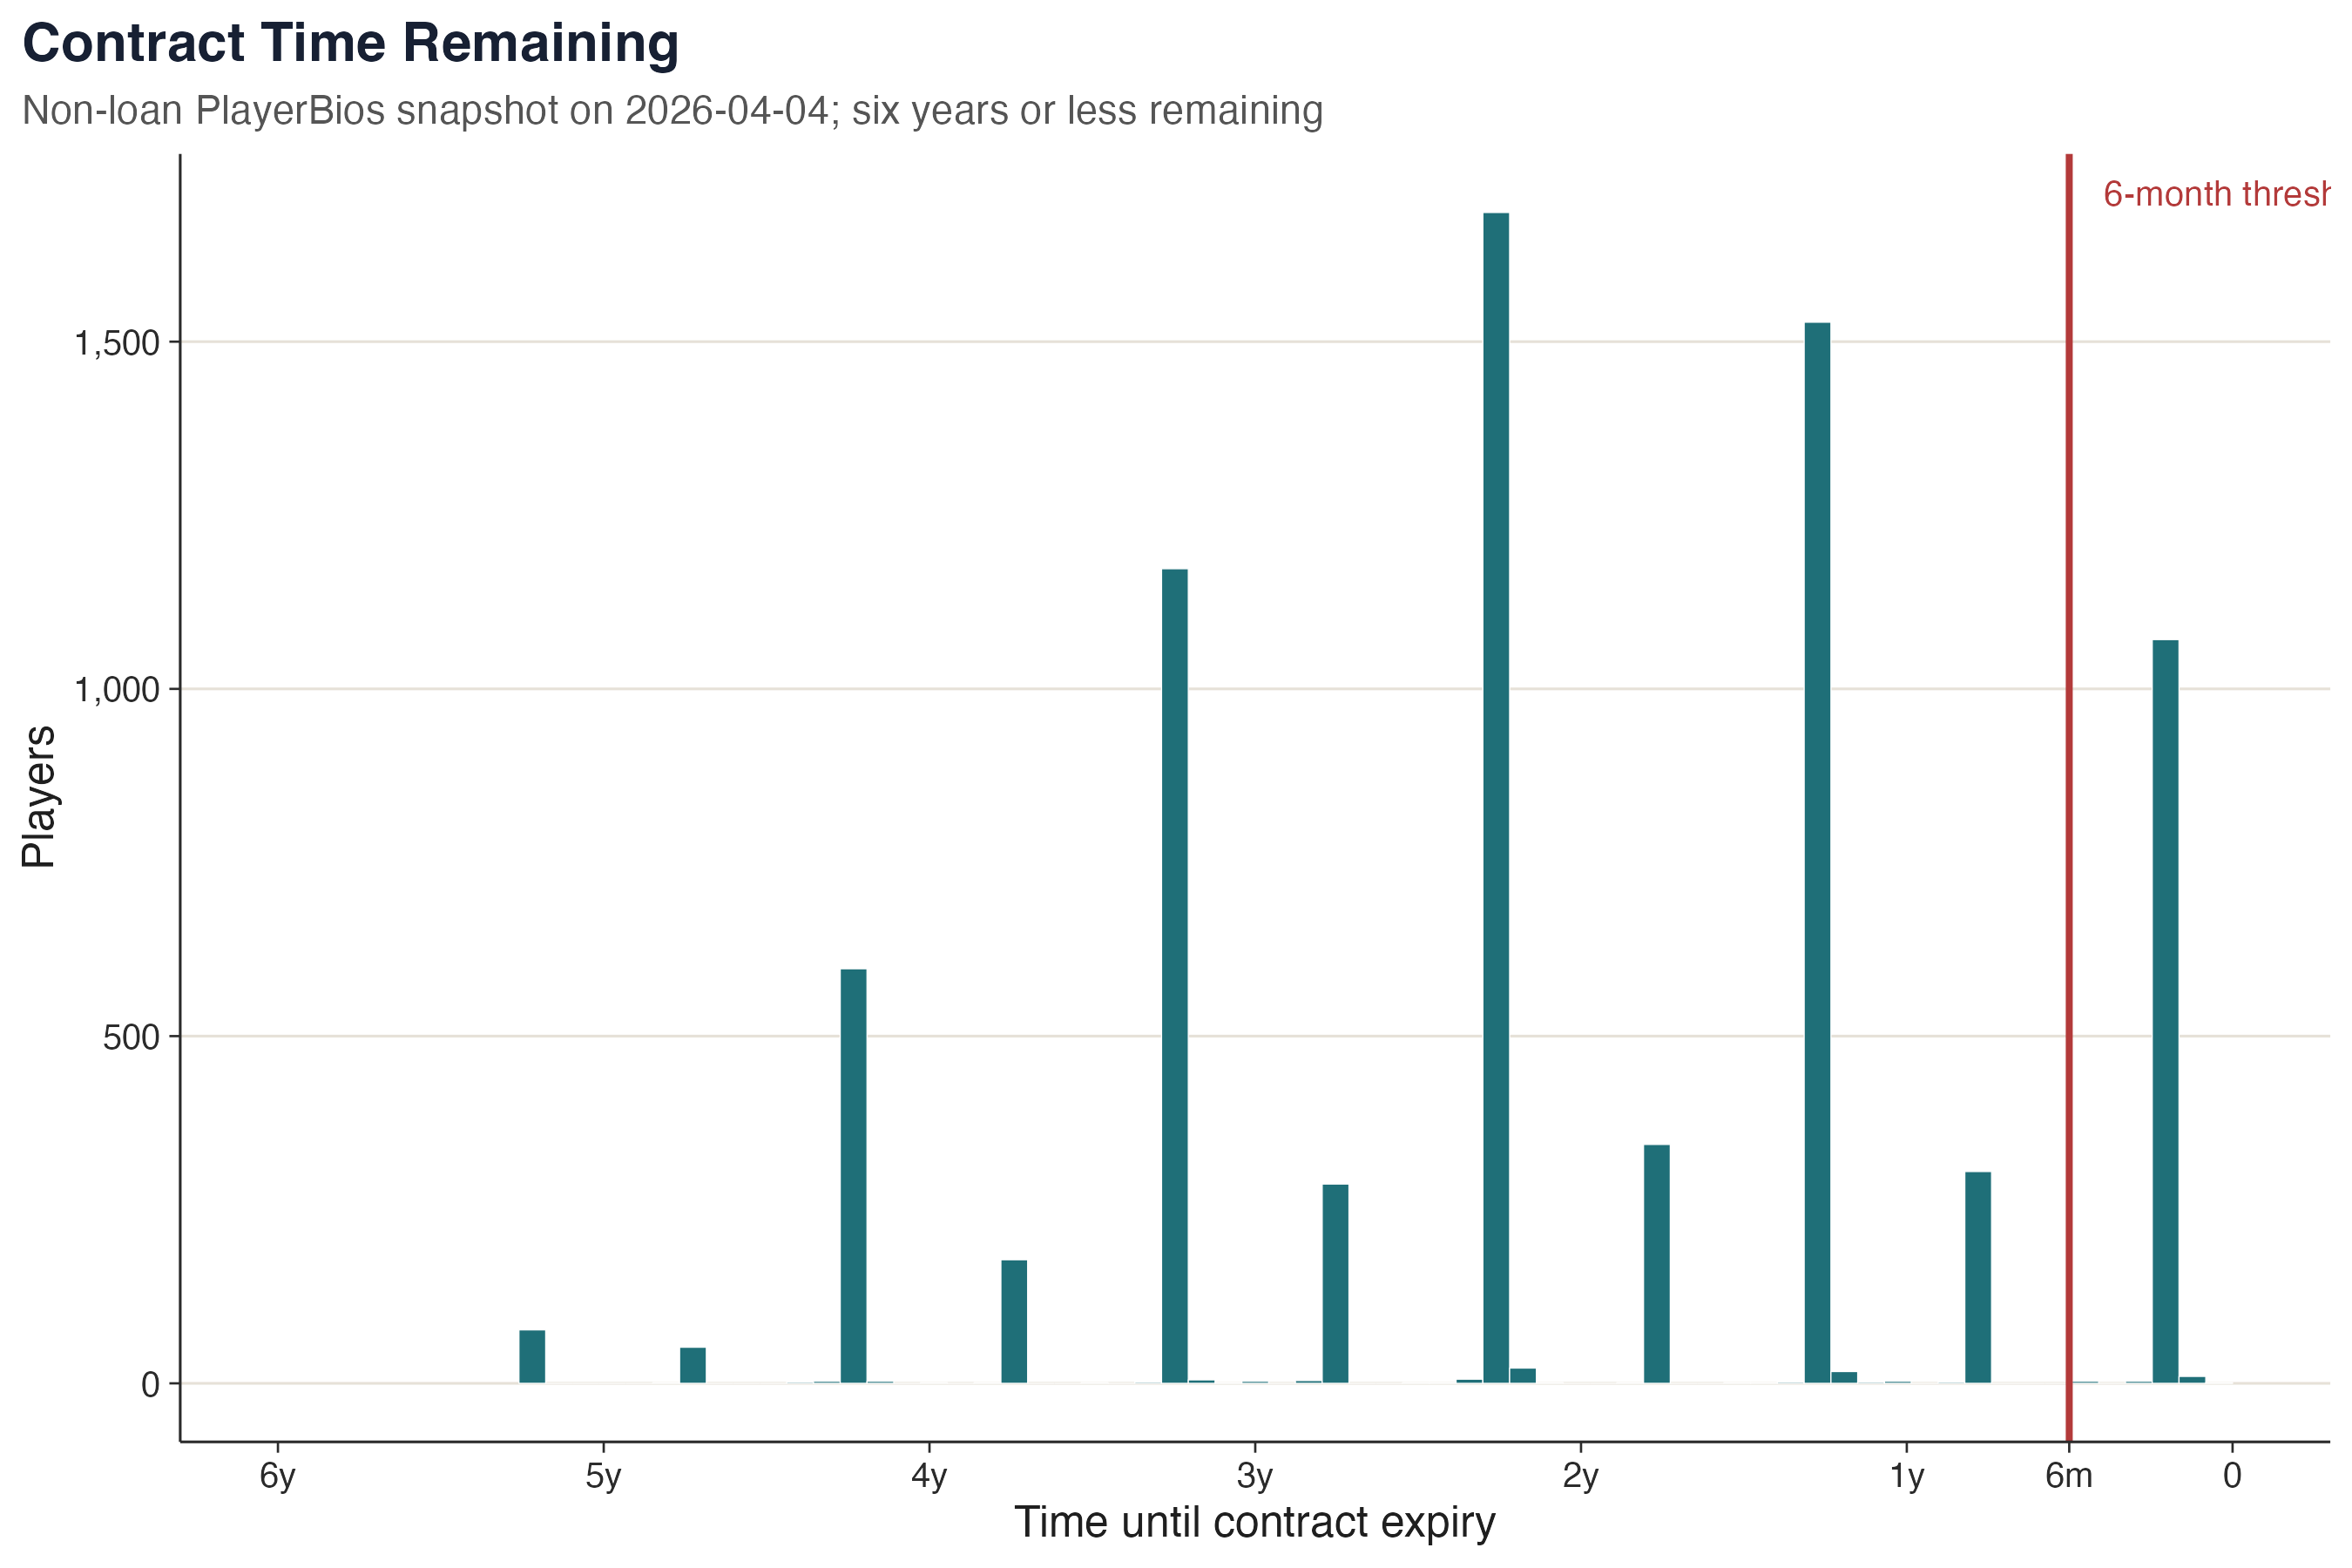
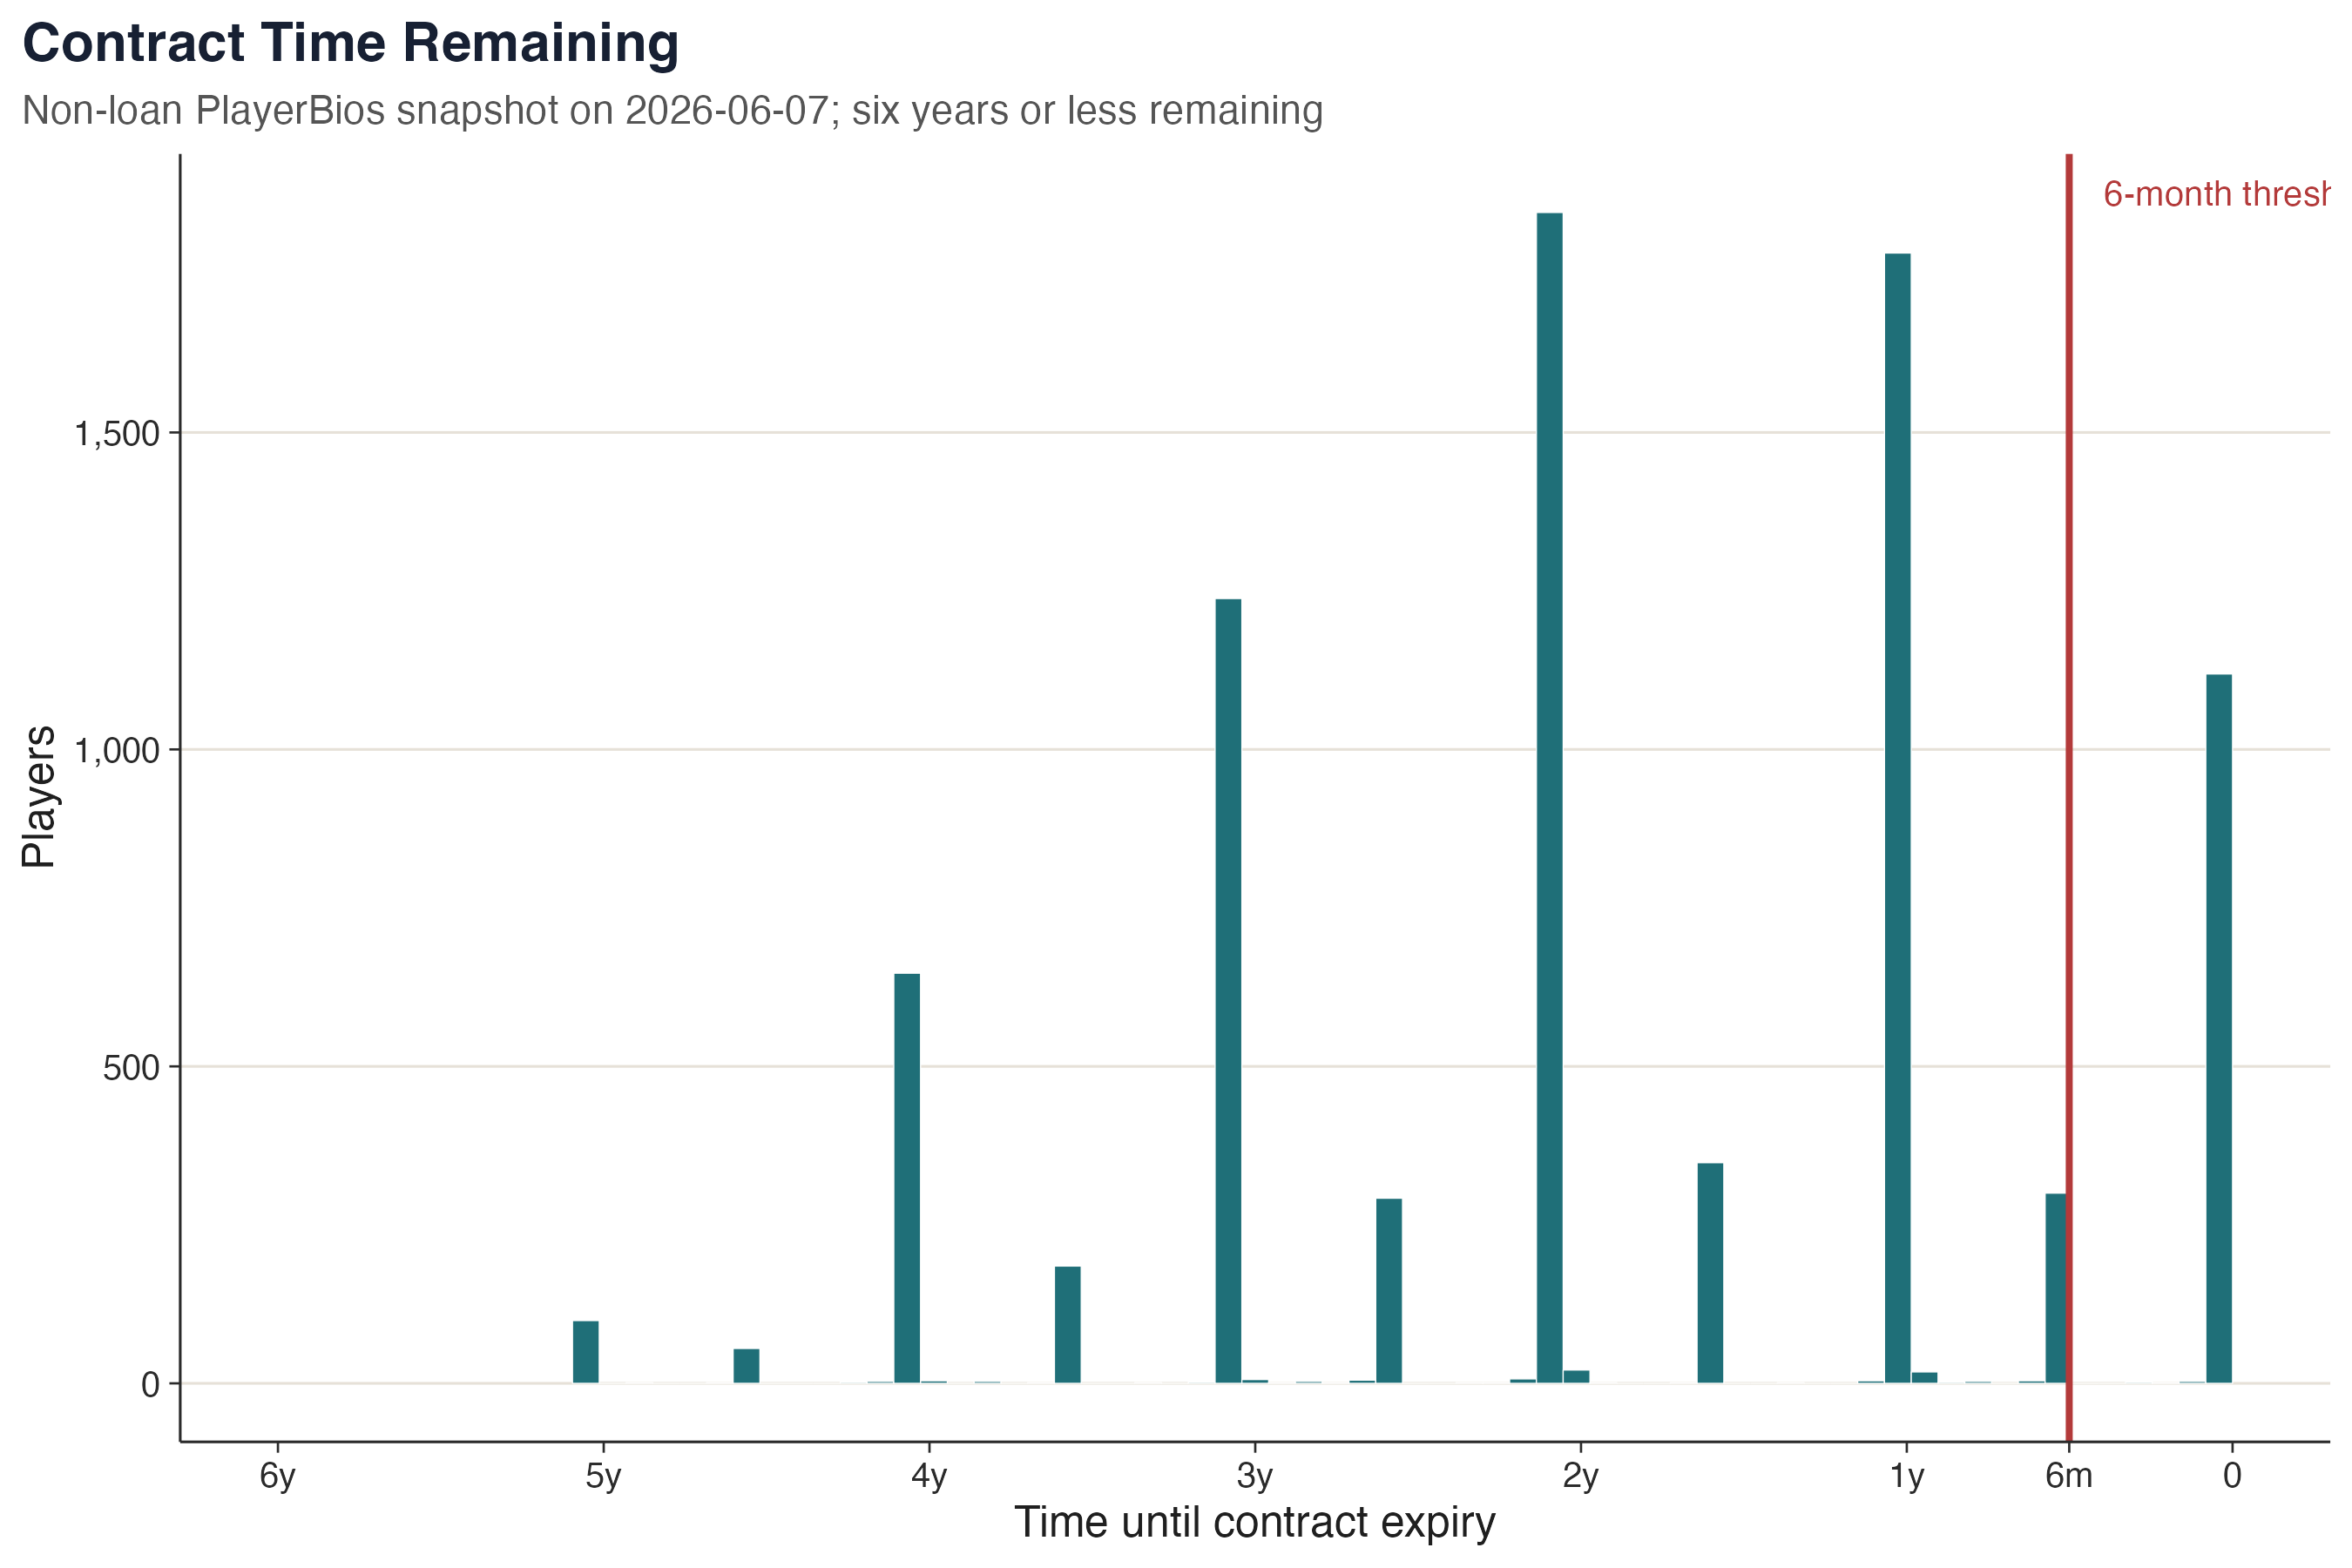
Refresh thesis descriptive statistics on rebuilt panel

Changed region(s): [[0.0311, 0.1244, 0.9644, 0.9022], [0.0311, 0.4356, 0.0622, 0.4978], [0.0311, 0.2489, 0.0622, 0.28]]

diff --git a/results/thesis_descriptive_statistics/SUMMARY.md b/results/thesis_descriptive_statistics/SUMMARY.md
@@ -6,14 +6,14 @@ Positive FotMob rating variables are used for rating means and plots. Zero ratin
 
 ## Sample Overview
 
-- Observations: 146485
+- Observations: 152817
 - Players: 5695
 - Clubs: 1448
 - Seasons: 5
 - First month: 2022-06-01
 - Last month: 2026-03-01
-- Bosman-window observations: 12727
-- Non-Bosman observations: 133758
+- Bosman-window observations: 14298
+- Non-Bosman observations: 138519
 
 Season-level coverage is saved in `season_coverage.csv`.
 
@@ -22,14 +22,14 @@ Season-level coverage is saved in `season_coverage.csv`.
 The contract panel now covers older seasons, but FotMob rating coverage is not available for every historical season in the local files. Rating coverage by season is saved in `fotmob_rating_availability_by_season.csv`; the historical rating checkpoint audit is saved in `historical_rating_file_audit.csv`.
 
 - `2021/2022`: observations = 19, positive mean-rating rows = 0 (0.0%)
-- `2022/2023`: observations = 26395, positive mean-rating rows = 0 (0.0%)
-- `2023/2024`: observations = 39938, positive mean-rating rows = 0 (0.0%)
-- `2024/2025`: observations = 44668, positive mean-rating rows = 8058 (18.0%)
-- `2025/2026`: observations = 35465, positive mean-rating rows = 26688 (75.3%)
+- `2022/2023`: observations = 26447, positive mean-rating rows = 5090 (19.2%)
+- `2023/2024`: observations = 40097, positive mean-rating rows = 6620 (16.5%)
+- `2024/2025`: observations = 45480, positive mean-rating rows = 14087 (31.0%)
+- `2025/2026`: observations = 40774, positive mean-rating rows = 30322 (74.4%)
 
 The 2024/25 ratings from `data/historical/checkpoints/ratings` are also read directly and summarised in this folder:
 
-- 2024/25 checkpoint ratings: observations = 86666, positive ratings = 51157, players = 11323, matches = 5456, date range = 2024-08-02 to 2025-05-31, mean rating = 6.87, panel-matched positive ratings = 25185
+- 2024/25 checkpoint ratings: observations = 316581, positive ratings = 204741, players = 13860, matches = 10691, date range = 2022-08-05 to 2025-06-01, mean rating = 6.85, panel-matched positive ratings = 119870
 
 - `historical_2024_2025_checkpoint_rating_overview.csv`
 - `historical_2024_2025_checkpoint_rating_by_month.csv`
@@ -40,37 +40,37 @@ The 2024/25 ratings from `data/historical/checkpoints/ratings` are also read dir
 
 Full sample summary statistics are saved in `table1_full_sample_summary_statistics.csv`.
 
-- `Age`: n = 146017, mean = 25.15, sd = 4.18, median = 25.00
+- `Age`: n = 152320, mean = 25.17, sd = 4.20, median = 25.00
 - `Assists_per90_tm`: n = 109247, mean = 0.12, sd = 0.82, median = 0.00
-- `Assists_tm`: n = 146485, mean = 0.20, sd = 0.54, median = 0.00
-- `DaysToExpiry`: n = 146485, mean = 794.30, sd = 451.95, median = 759.00
+- `Assists_tm`: n = 152817, mean = 0.19, sd = 0.53, median = 0.00
+- `DaysToExpiry`: n = 152817, mean = 783.90, sd = 452.49, median = 730.00
 - `Goals_per90_tm`: n = 109247, mean = 0.16, sd = 0.76, median = 0.00
-- `Goals_tm`: n = 146485, mean = 0.27, sd = 0.71, median = 0.00
-- `Minutes_tm`: n = 146485, mean = 169.95, sd = 163.35, median = 135.00
-- `fotmob_assists`: n = 40492, mean = 0.21, sd = 0.54, median = 0.00
-- `fotmob_goals`: n = 40492, mean = 0.32, sd = 0.76, median = 0.00
-- `fotmob_matches`: n = 40492, mean = 3.96, sd = 1.83, median = 4.00
-- `fotmob_mean_rating_clean`: n = 34746, mean = 5.48, sd = 1.86, median = 6.18
-- `fotmob_minutes`: n = 40492, mean = 208.14, sd = 159.66, median = 180.00
-- `fotmob_minutes_weighted_rating_clean`: n = 34746, mean = 6.53, sd = 1.11, median = 6.76
+- `Goals_tm`: n = 152817, mean = 0.26, sd = 0.70, median = 0.00
+- `Minutes_tm`: n = 152817, mean = 162.91, sd = 163.48, median = 117.00
+- `fotmob_assists`: n = 66150, mean = 0.20, sd = 0.52, median = 0.00
+- `fotmob_goals`: n = 66150, mean = 0.30, sd = 0.72, median = 0.00
+- `fotmob_matches`: n = 66150, mean = 3.72, sd = 1.67, median = 4.00
+- `fotmob_mean_rating_clean`: n = 56119, mean = 5.92, sd = 1.71, median = 6.55
+- `fotmob_minutes`: n = 66150, mean = 196.71, sd = 152.43, median = 180.00
+- `fotmob_minutes_weighted_rating_clean`: n = 56119, mean = 6.66, sd = 0.98, median = 6.81
 
 ## Table 2
 
 Comparison of means between player-months inside and outside the Bosman window is saved in `table2_bosman_window_mean_comparison_ttests.csv`.
 
-- `DaysToExpiry`: Bosman mean = 115.31, outside mean = 858.91, diff = -743.59, p = <0.001
-- `Age`: Bosman mean = 27.57, outside mean = 24.92, diff = 2.65, p = <0.001
-- `Minutes_tm`: Bosman mean = 164.01, outside mean = 170.51, diff = -6.50, p = <0.001
-- `Goals_tm`: Bosman mean = 0.23, outside mean = 0.27, diff = -0.04, p = <0.001
-- `Assists_tm`: Bosman mean = 0.17, outside mean = 0.20, diff = -0.03, p = <0.001
+- `DaysToExpiry`: Bosman mean = 116.72, outside mean = 852.77, diff = -736.05, p = <0.001
+- `Age`: Bosman mean = 27.63, outside mean = 24.92, diff = 2.71, p = <0.001
+- `Minutes_tm`: Bosman mean = 145.99, outside mean = 164.65, diff = -18.66, p = <0.001
+- `Goals_tm`: Bosman mean = 0.21, outside mean = 0.26, diff = -0.06, p = <0.001
+- `Assists_tm`: Bosman mean = 0.15, outside mean = 0.19, diff = -0.04, p = <0.001
 - `Goals_per90_tm`: Bosman mean = 0.14, outside mean = 0.16, diff = -0.02, p = 0.142
 - `Assists_per90_tm`: Bosman mean = 0.11, outside mean = 0.12, diff = -0.01, p = 0.443
-- `fotmob_matches`: Bosman mean = 3.57, outside mean = 3.99, diff = -0.42, p = <0.001
-- `fotmob_minutes`: Bosman mean = 188.39, outside mean = 209.95, diff = -21.56, p = <0.001
-- `fotmob_goals`: Bosman mean = 0.26, outside mean = 0.33, diff = -0.07, p = <0.001
-- `fotmob_assists`: Bosman mean = 0.18, outside mean = 0.22, diff = -0.04, p = <0.001
-- `fotmob_mean_rating_clean`: Bosman mean = 5.63, outside mean = 5.47, diff = 0.16, p = <0.001
-- `fotmob_minutes_weighted_rating_clean`: Bosman mean = 6.66, outside mean = 6.52, diff = 0.13, p = <0.001
+- `fotmob_matches`: Bosman mean = 3.52, outside mean = 3.73, diff = -0.21, p = <0.001
+- `fotmob_minutes`: Bosman mean = 174.35, outside mean = 198.86, diff = -24.51, p = <0.001
+- `fotmob_goals`: Bosman mean = 0.23, outside mean = 0.31, diff = -0.08, p = <0.001
+- `fotmob_assists`: Bosman mean = 0.16, outside mean = 0.21, diff = -0.05, p = <0.001
+- `fotmob_mean_rating_clean`: Bosman mean = 5.79, outside mean = 5.93, diff = -0.14, p = <0.001
+- `fotmob_minutes_weighted_rating_clean`: Bosman mean = 6.68, outside mean = 6.66, diff = 0.02, p = 0.124
 
 ## Table 3
 